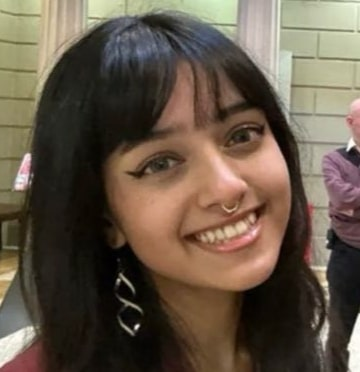
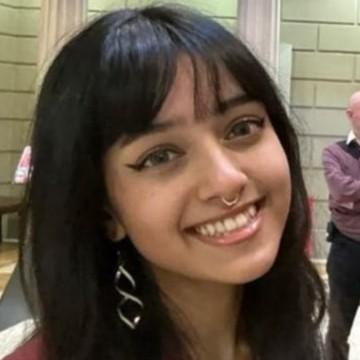
Name update

diff --git a/timeline/script.js b/timeline/script.js
@@ -124,7 +124,7 @@ const people = [
     x: -12,
   },
   {
-    name: "Jamie",
+    name: "Ash",
     year: 2013,
     y: 190,
     x: 12,
